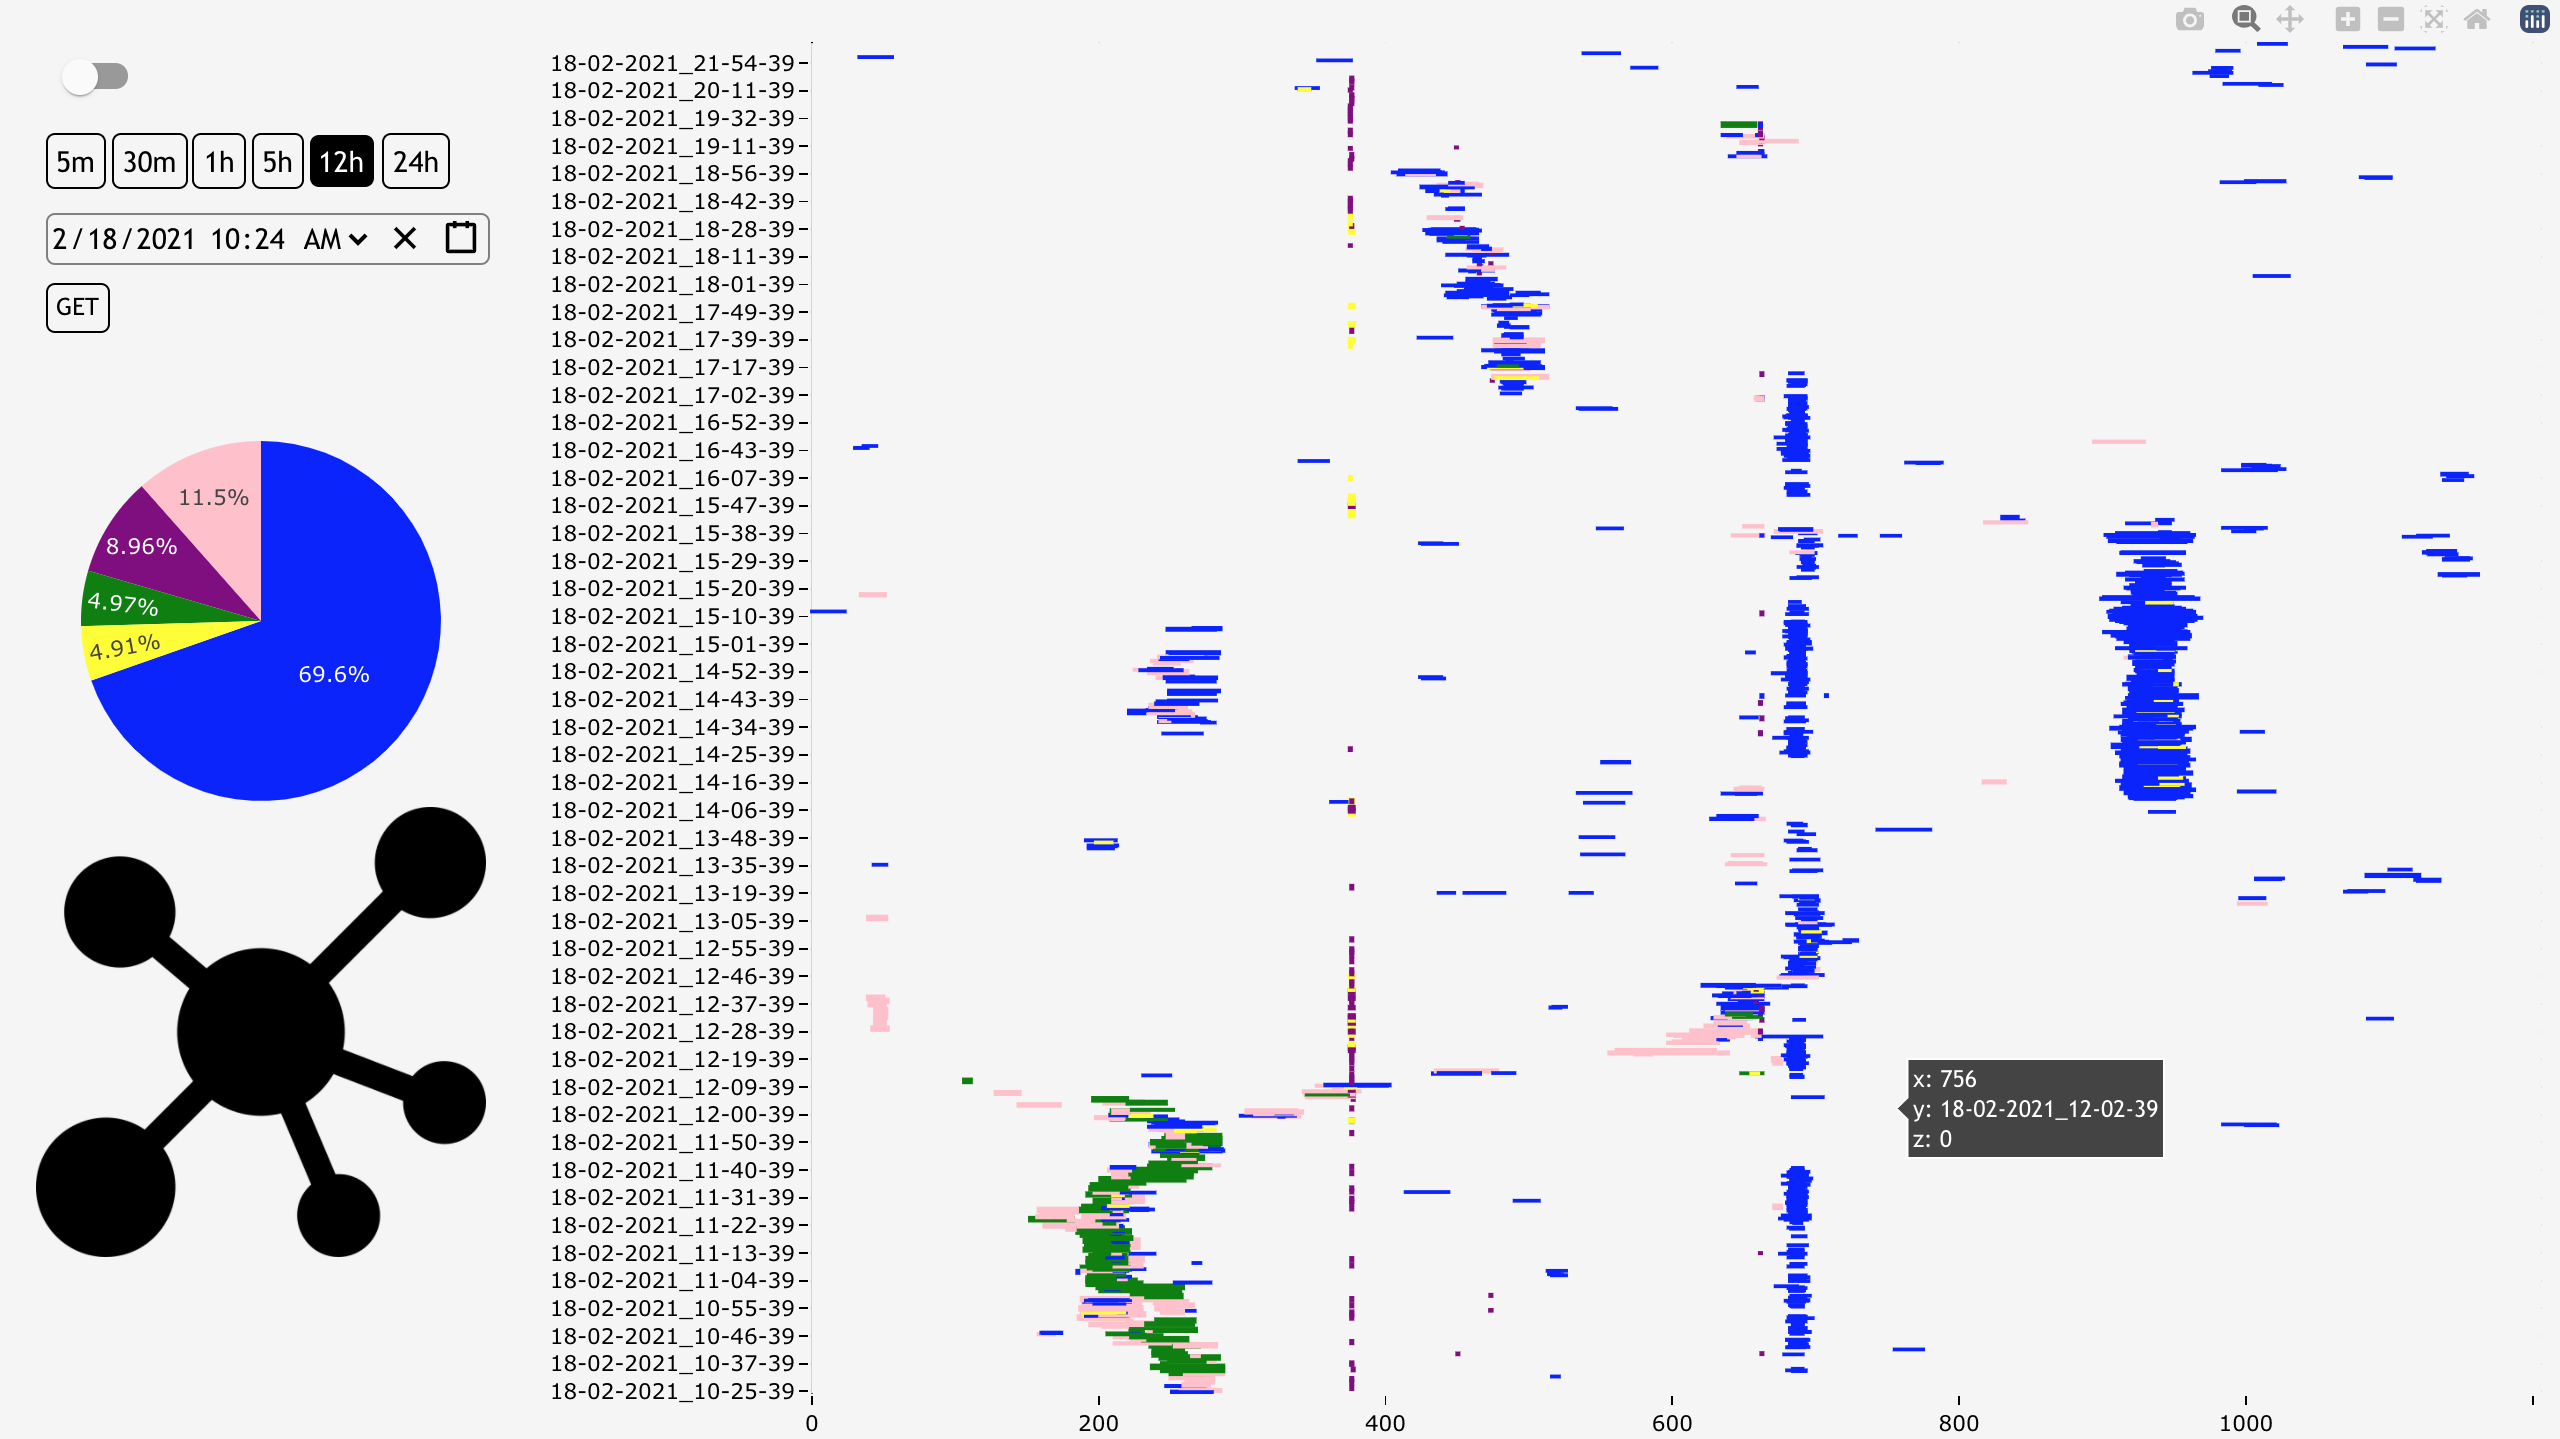
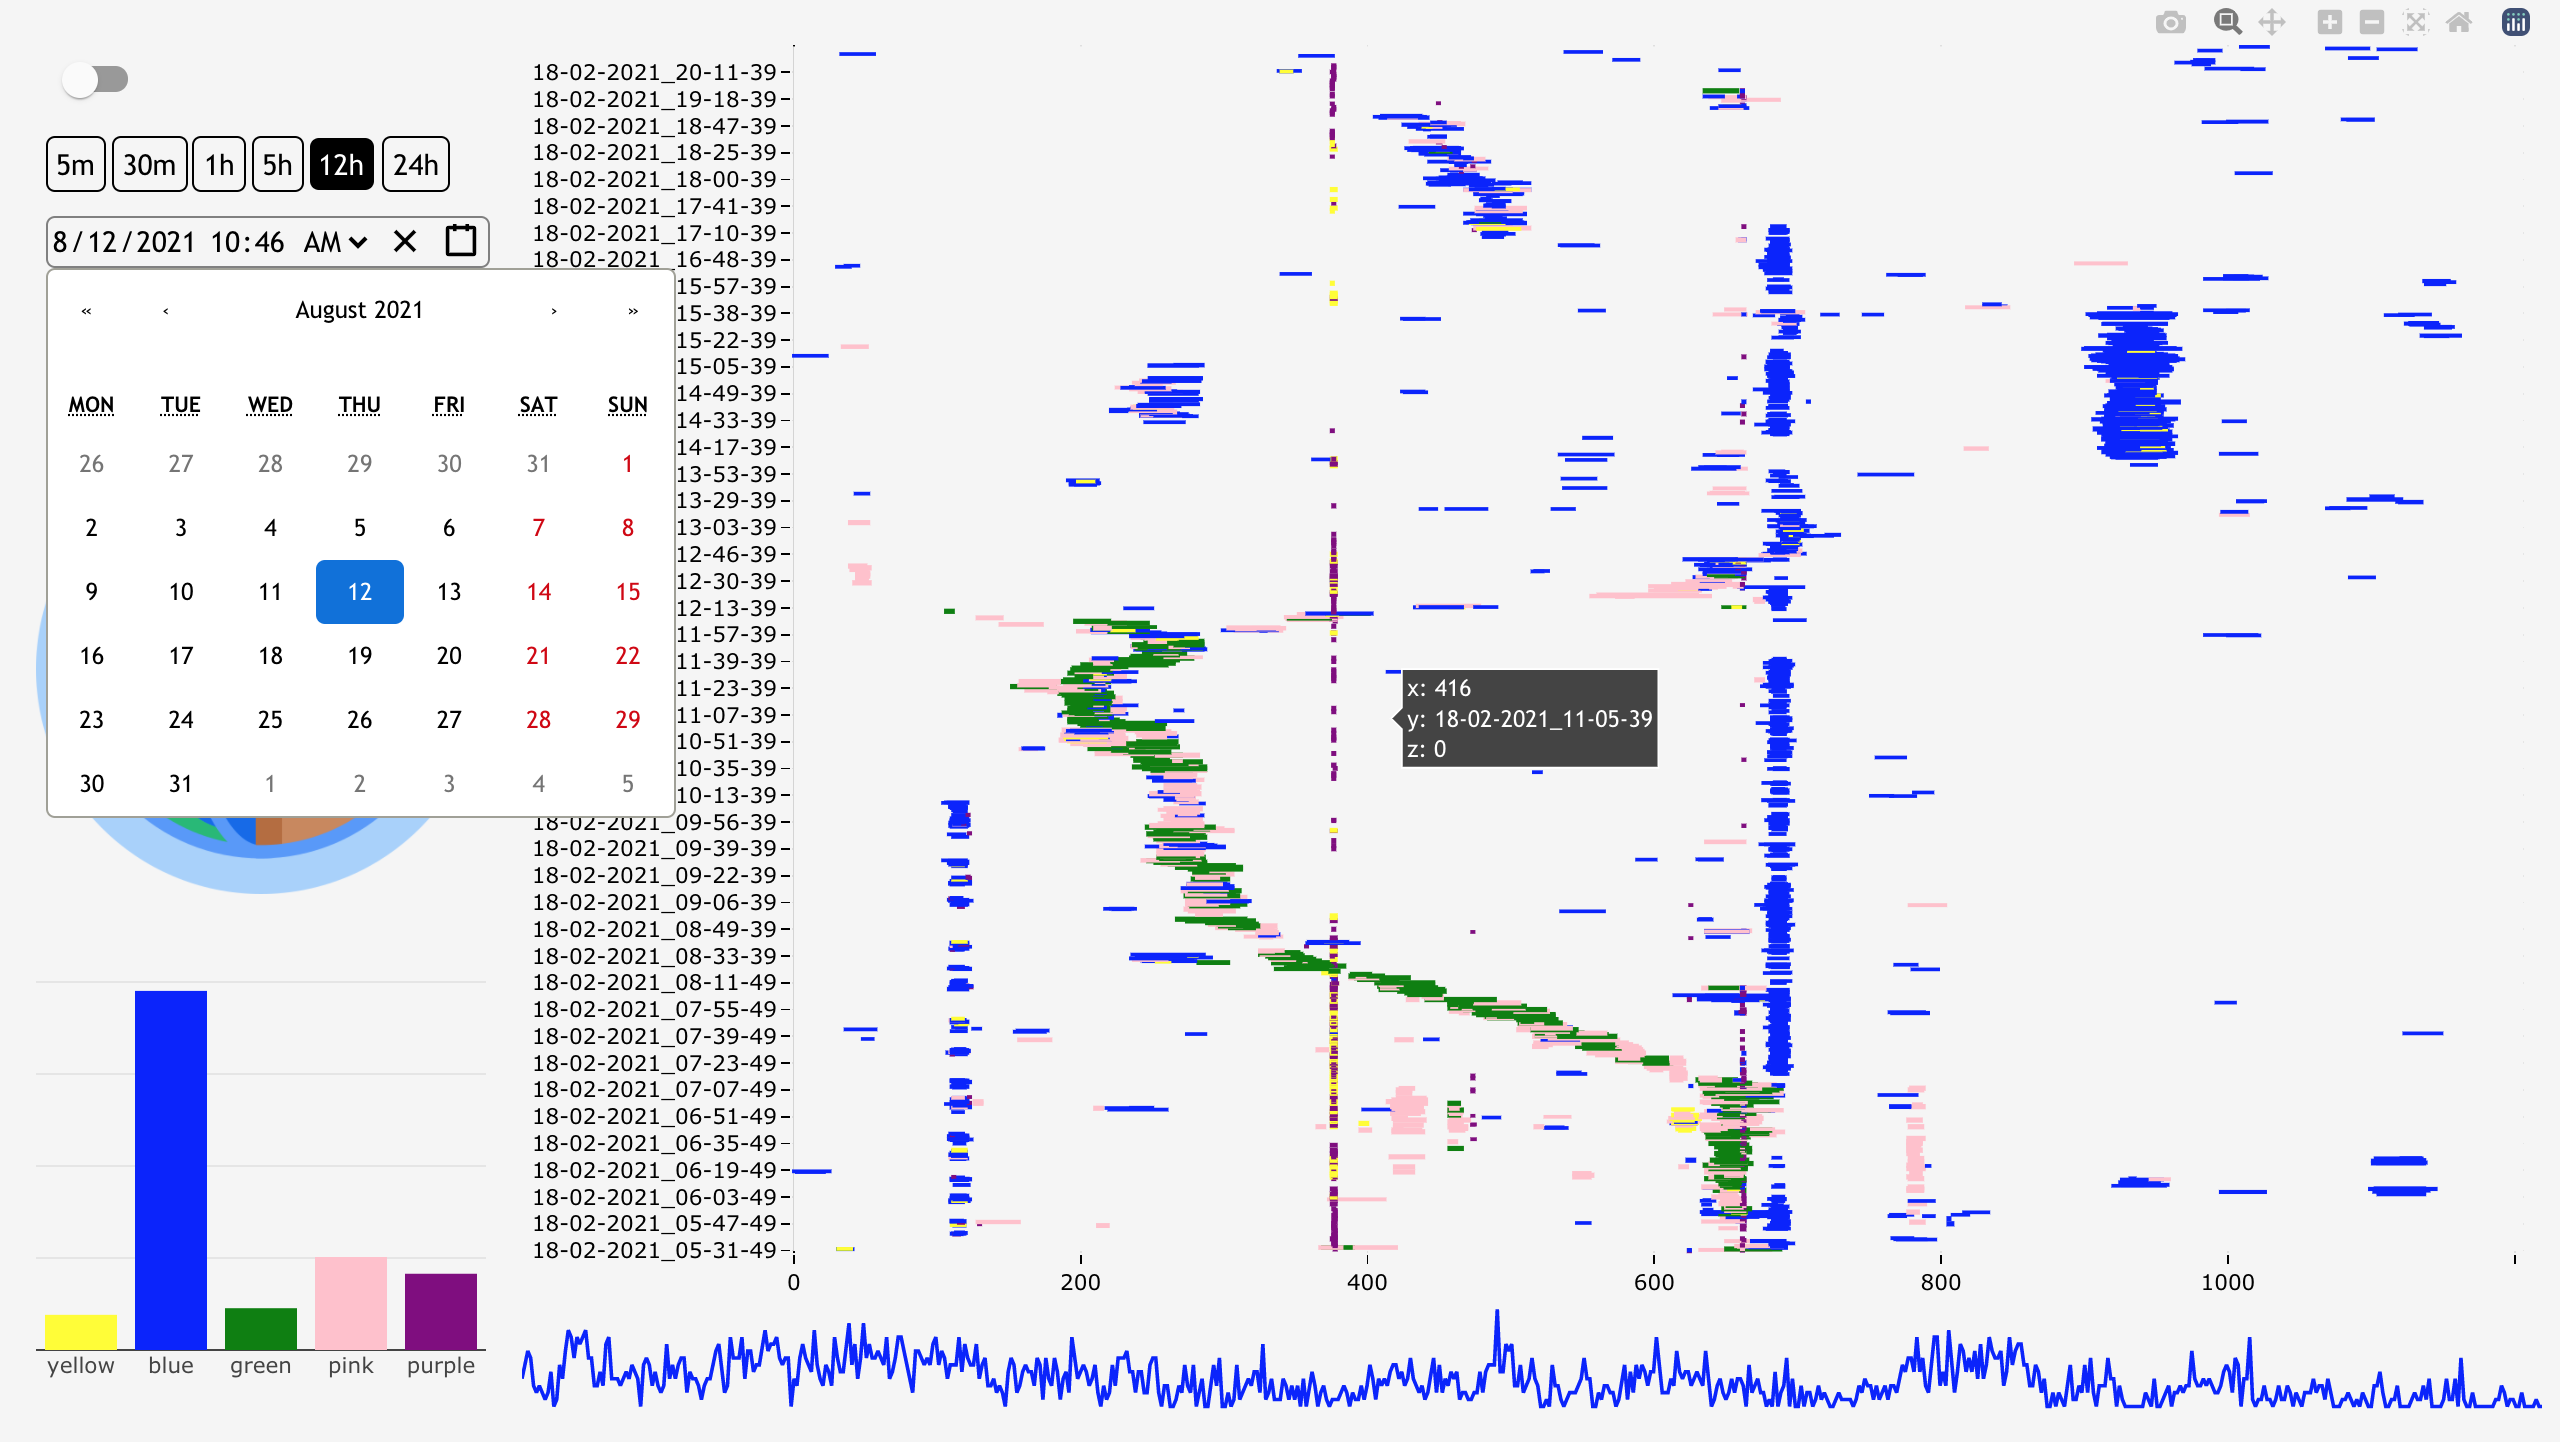
Add line + bar plot

diff --git a/client/src/App.js b/client/src/App.js
@@ -17,6 +17,7 @@ export default function App() {
   const [live, setLive] = useState(true)
   const [sensor, setSensor] = useState('')
   const [dataDT, setDataDT] = useState([])
+  const [timeDT, setTimeDT] = useState([])
   const [range, setRange] = useState('12h')
   const [dtLabels, setDtLabels] = useState([])
   const [subImg, setSubImg] = useState(SubImg)
@@ -33,6 +34,7 @@ export default function App() {
   const fetchData = (timestamp = '') => {
     axios.post(`${url}/data`, { range: rangeToMinutes(range), timestamp })
       .then(res => {
+        setTimeDT(res.data.dt.time)
         setDtLabels(res.data.dt.labels)
         setDataDT([{ z: res.data.dt.data, y: res.data.dt.time, type: 'heatmap', colorscale: [['0', '#F5F5F5'], ['1', '#F5F5F5']], showscale: false }])
       })
@@ -66,11 +68,14 @@ export default function App() {
           <RangeSelect range={range} setRange={setRange} />
           <DateSelect live={live} fetchData={fetchData} />
         </div>
-        <PiePlot dtLabels={dtLabels} />
         <Magnifier src={subImg} width={250} />
+        <PiePlot dtLabels={dtLabels} />
       </div>
       <Keyboard setSubImg={setSubImg} setSensor={setSensor} date={date} sensor={sensor} url={url} />
-      <MainPlot dataDT={dataDT} dtLabels={dtLabels} setSubImg={setSubImg} url={url} setDate={setDate} setSensor={setSensor} />
+      <div>
+        <MainPlot dataDT={dataDT} dtLabels={dtLabels} setSubImg={setSubImg} url={url} setDate={setDate} setSensor={setSensor} />
+        <LinePlot dtLabels={dtLabels} timeDT={timeDT} />
+      </div>
     </div>
   )
 }
@@ -79,7 +84,7 @@ export default function App() {
 export const MainPlot = ({ dataDT, dtLabels, setSubImg, url, setDate, setSensor }) => {
 
   const plotLayoutDT = {
-    width: window.innerWidth - 300, height: window.innerHeight, margin: { l: 150, r: 10, b: 25, t: 25, pad: 0 }, shapes: dtLabels,
+    width: window.innerWidth - 300, height: window.innerHeight * 0.9, margin: { l: 150, r: 10, b: 25, t: 25, pad: 0 }, shapes: dtLabels,
     paper_bgcolor: '#F5F5F5', plot_bgcolor: '#F5F5F5', xaxis: { color: 'black' }, yaxis: { color: 'black' }
   }
 
@@ -104,16 +109,35 @@ export const PiePlot = ({ dtLabels }) => {
   }, [dtLabels])
 
   const plotDataPIE = [{
-    values: Object.keys(colors).map(key => { return colors[key] }), labels: Object.keys(colors), type: 'pie',
-    marker: { colors: ['yellow', 'blue', 'green', 'pink', 'purple',] }
+    y: Object.keys(colors).map(key => { return colors[key] }), x: Object.keys(colors), type: 'bar',
+    marker: { color: ['yellow', 'blue', 'green', 'pink', 'purple',] }
   }]
 
   const plotLayoutPIE = {
-    width: 250, height: 200, margin: { l: 0, r: 0, b: 20, t: 0, pad: 0 },
+    width: 250, height: 270, margin: { l: 0, r: 0, b: 20, t: 40, pad: 0 },
     paper_bgcolor: '#F5F5F5', plot_bgcolor: '#F5F5F5', showlegend: false
   }
 
   return <Plot data={plotDataPIE} layout={plotLayoutPIE} />
+}
+
+
+export const LinePlot = ({ dtLabels, timeDT }) => {
+
+  const [counts, setCounts] = useState([])
+
+  useEffect(() => {
+    let dataSplit = {}
+    dtLabels.forEach((label) => { dataSplit[Math.trunc(label.y1)] = (dataSplit[Math.trunc(label.y1)] || 0) + 1 });
+    setCounts([{ x: timeDT, y: Object.keys(dataSplit).map(key => { return dataSplit[key] }), type: 'scatter', line: { color: 'blue' } }])
+  }, [dtLabels, timeDT])
+
+  const plotLayoutLI = {
+    width: window.innerWidth - 300, height: window.innerHeight * 0.1, margin: { l: 0, r: 0, b: 20, t: 0, pad: 0 },
+    paper_bgcolor: '#F5F5F5', plot_bgcolor: '#F5F5F5', xaxis: { showgrid: false, showticklabels: false }, yaxis: { showgrid: false }
+  }
+
+  return <Plot data={counts} layout={plotLayoutLI} />
 }
 
 

diff --git a/client/public/index.html b/client/public/index.html
@@ -9,7 +9,7 @@
   <meta name="description" content="Web site created using create-react-app" />
   <link rel="apple-touch-icon" href="%PUBLIC_URL%/logo.png" />
   <link rel="manifest" href="%PUBLIC_URL%/manifest.json" />
-  <title>HeatMap</title>
+  <title>HeatMapMonitor</title>
 </head>
 
 <body>

diff --git a/client/src/index.css b/client/src/index.css
@@ -29,7 +29,7 @@ code {
 .main-nav-sub{
   margin-bottom: 15px;
   padding: 5px;
-  height: calc(100vh - 550px);
+  height: calc(100vh - 600px);
 }
 
 .btn-range{
